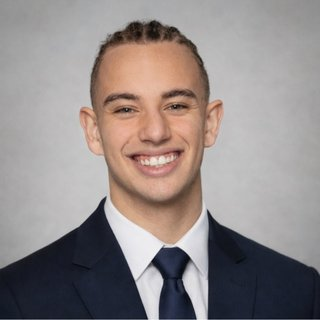
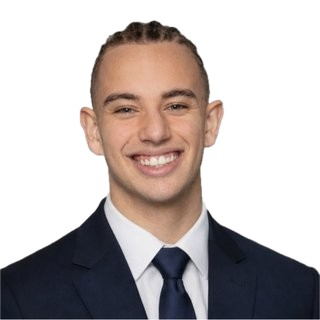
Put analyst headshots on white backgrounds

diff --git a/src/lsgamma/hub/static/hub.css b/src/lsgamma/hub/static/hub.css
@@ -79,12 +79,10 @@ button { font: inherit; color: inherit; }
 .team { display: grid; grid-template-columns: repeat(auto-fill, minmax(178px, 1fr)); gap: var(--gs-gap); }
 .member { display: flex; flex-direction: column; }
 .avatar { width: 72px; height: 72px; border-radius: 50%; display: flex; align-items: center; justify-content: center; background: var(--gs-media); color: var(--gs-ink); font-family: var(--gs-font-display); font-size: 17px; font-weight: 400; letter-spacing: -.02em; }
-.member.pm .avatar { background: var(--gs-ink); color: #fff; }
+.member.pm div.avatar { background: var(--gs-ink); color: #fff; }
 img.avatar { display: block; object-fit: cover; object-position: center 30%; background: var(--gs-media); }
 .member .gs-cardh { font-size: 18px; margin: 16px 0 8px; }
 .member .vpill { align-self: flex-start; }
-.member .topics { margin-top: 12px; font-size: 14px; color: var(--gs-text); }
-.member .topics.none { color: var(--gs-placeholder); }
 .member .mfoot { margin-top: auto; }
 .member .links { display: flex; gap: 8px; margin-top: 18px; }
 .icon-link { display: inline-flex; align-items: center; justify-content: center; width: 36px; height: 36px; border-radius: 50%; background: #fff; border: 1px solid var(--gs-line); color: var(--gs-ink); transition: border-color var(--gs-fast); }
@@ -387,8 +385,6 @@ mark { background: color-mix(in srgb, var(--gs-highlight) 32%, #fff); color: inh
   .member .avatar { grid-area: 1 / 1 / 4 / 2; width: 44px; height: 44px; font-size: 14px; }
   .member .gs-cardh { grid-area: 1 / 2; margin: 0; font-size: 16px; line-height: 1.25; }
   .member .vpill { grid-area: 2 / 2; justify-self: start; padding: 0; border: 0; background: none; color: var(--gs-grey); font-size: 13px; font-weight: 400; }
-  .member .topics { grid-area: 3 / 2; margin: 2px 0 0; font-size: 12px; }
-  .member .topics.none { display: none; }
   .member .mfoot { grid-area: 1 / 3 / 4 / 4; margin: 0; }
   .member .links { margin: 0; gap: 6px; }
   .icon-link { width: 36px; height: 36px; }
